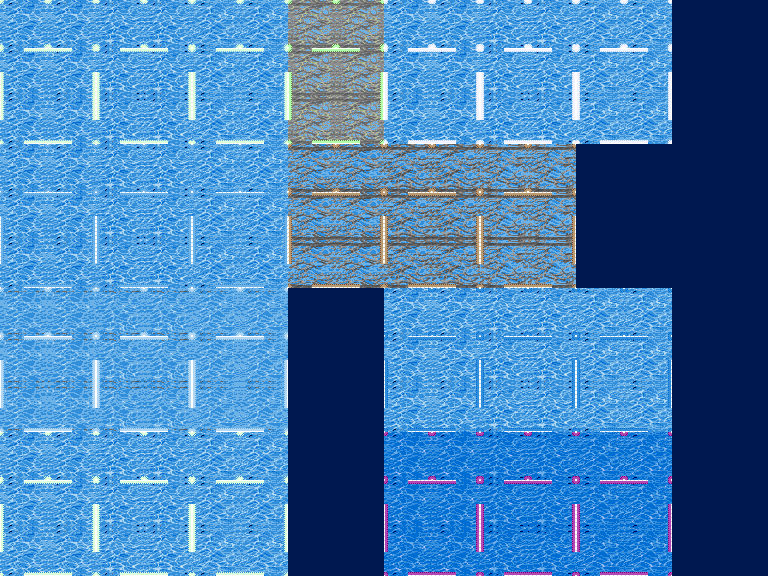
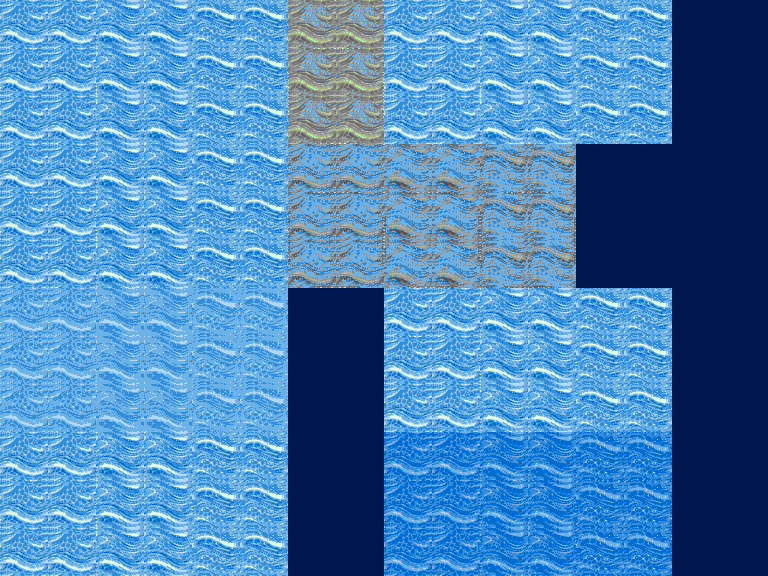
[gemini] Deploy authentic Nano Banana II cave walls with continuous coping and 3-frame flowing water with seamless multi-biome shorelines

diff --git a/tools/build_nano_tilesets_v2.js b/tools/build_nano_tilesets_v2.js
@@ -54,6 +54,7 @@ function snapHex(hex) {
 const dungeonWallsRaw = decodePNG(fs.readFileSync(path.join(ROOT, 'art', 'raw', 'dungeon_walls_nano_raw.png')));
 const dungeonFloorsRaw = decodePNG(fs.readFileSync(path.join(ROOT, 'art', 'raw', 'dungeon_floors_nano_raw.png')));
 const waterAnimatedRaw = decodePNG(fs.readFileSync(path.join(ROOT, 'art', 'raw', 'water_nano_animated_raw.png')));
+const waterFlowRaw = decodePNG(fs.readFileSync(path.join(ROOT, 'art', 'raw', 'water_nano_flow_raw.png')));
 const wallStoneRaw = decodePNG(fs.readFileSync(path.join(ROOT, 'art', 'raw', 'wall_stone_nano_banana_raw.png')));
 const wallWoodRaw = decodePNG(fs.readFileSync(path.join(ROOT, 'art', 'raw', 'wall_wood_nano_banana_raw.png')));
 
@@ -138,8 +139,8 @@ function buildA4WallColumn(style) {
     const lipH = snapHex(style.lipHi || style.rimHi);
 
     // --- Part A: Wall Top (y = 0..143, 4x6 sub-tiles of 24x24) ---
-    // Sample 48x48 bedrock texture from topRaw for interior unmined rock
-    const topBedrock = makeSeamless(sampleBox(style.topRaw || style.faceRaw, style.topX || style.faceX, style.topY || style.faceY, 300, 300, 48, 48), 48, 48);
+    // Sample 48x48 bedrock texture from topRaw for interior unmined rock coping
+    const topBedrock = makeSeamless(sampleBox(style.topRaw || style.faceRaw, style.topX !== undefined ? style.topX : (style.faceX || 720), style.topY !== undefined ? style.topY : 10, style.topW || 160, style.topH || 150, 48, 48), 48, 48, 4);
 
     for (let sy = 0; sy < 6; sy++) {
         for (let sx = 0; sx < 4; sx++) {
@@ -153,40 +154,45 @@ function buildA4WallColumn(style) {
                     const di = (py * 96 + px) * 4;
 
                     const si = ((baseTy + ly) * 48 + (baseTx + lx)) * 4;
-                    let r = topBedrock[si], g = topBedrock[si + 1], b = topBedrock[si + 2];
 
                     let edgeDist = Infinity;
                     let isSouthLip = false;
 
                     if ((sy === 3 || sy === 4) && (sx === 1 || sx === 2)) {
-                        edgeDist = Infinity; // Fully connected interior (solid bedrock)
+                        edgeDist = Infinity; // Fully connected interior (solid ceiling)
                     } else if (sy === 2 && (sx === 1 || sx === 2)) {
-                        edgeDist = ly; // North edge
+                        edgeDist = ly; // North straight edge
                     } else if (sy === 5 && (sx === 1 || sx === 2)) {
-                        edgeDist = 23 - ly; // South edge
+                        edgeDist = 23 - ly; // South straight edge
                         isSouthLip = true;
                     } else if (sx === 0 && (sy === 3 || sy === 4)) {
-                        edgeDist = lx; // West edge
+                        edgeDist = lx; // West straight edge
                     } else if (sx === 3 && (sy === 3 || sy === 4)) {
-                        edgeDist = 23 - lx; // East edge
+                        edgeDist = 23 - lx; // East straight edge
                     } else if (sx === 0 && sy === 2) {
-                        edgeDist = Math.hypot(lx, ly);
+                        edgeDist = Math.hypot(lx, ly); // NW outer corner
                     } else if (sx === 3 && sy === 2) {
-                        edgeDist = Math.hypot(23 - lx, ly);
+                        edgeDist = Math.hypot(23 - lx, ly); // NE outer corner
                     } else if (sx === 0 && sy === 5) {
-                        edgeDist = Math.hypot(lx, 23 - ly);
+                        edgeDist = Math.hypot(lx, 23 - ly); // SW outer corner
                         isSouthLip = true;
                     } else if (sx === 3 && sy === 5) {
-                        edgeDist = Math.hypot(23 - lx, 23 - ly);
+                        edgeDist = Math.hypot(23 - lx, 23 - ly); // SE outer corner
                         isSouthLip = true;
                     } else if (sx === 2 && sy === 0) {
-                        if (lx < 6 && ly < 6) edgeDist = Math.hypot(lx, ly);
+                        // NW inner corner (open room diagonally to NW)
+                        edgeDist = Math.hypot(lx, ly);
                     } else if (sx === 3 && sy === 0) {
-                        if ((23 - lx) < 6 && ly < 6) edgeDist = Math.hypot(23 - lx, ly);
+                        // NE inner corner (open room diagonally to NE)
+                        edgeDist = Math.hypot(23 - lx, ly);
                     } else if (sx === 2 && sy === 1) {
-                        if (lx < 6 && (23 - ly) < 6) { edgeDist = Math.hypot(lx, 23 - ly); isSouthLip = true; }
+                        // SW inner corner (open room diagonally to SW)
+                        edgeDist = Math.hypot(lx, 23 - ly);
+                        isSouthLip = true;
                     } else if (sx === 3 && sy === 1) {
-                        if ((23 - lx) < 6 && (23 - ly) < 6) { edgeDist = Math.hypot(23 - lx, 23 - ly); isSouthLip = true; }
+                        // SE inner corner (open room diagonally to SE)
+                        edgeDist = Math.hypot(23 - lx, 23 - ly);
+                        isSouthLip = true;
                     } else if (sx === 0 && sy === 0) {
                         edgeDist = Math.hypot(lx, ly);
                     } else if (sx === 1 && sy === 0) {
@@ -200,20 +206,34 @@ function buildA4WallColumn(style) {
                     }
 
                     // Render Wall Top:
-                    // edgeDist 0..6.5: Coping rim with highlight and bevel
-                    // edgeDist 6.5..8: Inner bevel shadow into the dark void
-                    // edgeDist >= 8: Pure black ceiling void inside the material rim
+                    // Authentic cave rock coping bordering pitch black ceiling void.
+                    // edgeDist 0..7.0: Textured rock coping from topBedrock!
+                    //   - edgeDist < 2.0: highlight on North/West, crisp bevel on South
+                    //   - edgeDist 5.0..7.0: inner shadow into the void
+                    // edgeDist >= 7.0: Pure black ceiling void (#000000)
                     let c = null;
-                    if (edgeDist < 1.0) {
-                        c = isSouthLip ? lipD : rimD;
-                    } else if (edgeDist < 2.5) {
-                        c = isSouthLip ? lipM : rimM;
-                    } else if (edgeDist < 4.5) {
-                        c = isSouthLip ? lipH : rimH;
-                    } else if (edgeDist < 6.5) {
-                        c = isSouthLip ? lipM : rimM;
-                    } else if (edgeDist < 8.0) {
-                        c = innerShd;
+                    if (edgeDist < 7.0) {
+                        let pr = topBedrock[si], pg = topBedrock[si + 1], pb = topBedrock[si + 2];
+                        if (style.tint) {
+                            pr = Math.round((pr * style.tint[0]) / 255);
+                            pg = Math.round((pg * style.tint[1]) / 255);
+                            pb = Math.round((pb * style.tint[2]) / 255);
+                        }
+                        if (edgeDist < 2.0) {
+                            if (isSouthLip) {
+                                pr = Math.round(pr * 0.70); pg = Math.round(pg * 0.70); pb = Math.round(pb * 0.70);
+                            } else {
+                                pr = Math.min(255, Math.round(pr * 1.30));
+                                pg = Math.min(255, Math.round(pg * 1.30));
+                                pb = Math.min(255, Math.round(pb * 1.30));
+                            }
+                        } else if (edgeDist >= 5.0) {
+                            const t = (edgeDist - 5.0) / 2.0;
+                            pr = Math.round(pr * (1 - t * 0.85));
+                            pg = Math.round(pg * (1 - t * 0.85));
+                            pb = Math.round(pb * (1 - t * 0.85));
+                        }
+                        c = snap(pr, pg, pb);
                     } else {
                         // Pure pitch black ceiling void inside the material rim
                         c = voidCol;
@@ -407,13 +427,13 @@ function buildA2FloorBlock(tile48, borderColors) {
 // 5. BUILD ANIMATED WATER A1 (Outside_A1.png, Dungeon_A1.png)
 //    Width: 768 px (16 tiles)
 //    Height: 576 px (12 tiles)
-//    From water_nano_animated_raw.png (Panels 1, 2, 3)
+//    From water_nano_flow_raw.png (3 animated wave ribbon frames)
 //    Universal seamless shoreline with soft translucent shallows & white surf foam
 // ----------------------------------------------------------------------------
-const waterPanels = [
-    makeSeamless(sampleBox(waterAnimatedRaw, 70, 120, 350, 600, 48, 48), 48, 48),
-    makeSeamless(sampleBox(waterAnimatedRaw, 490, 120, 350, 600, 48, 48), 48, 48),
-    makeSeamless(sampleBox(waterAnimatedRaw, 910, 120, 350, 600, 48, 48), 48, 48)
+const waterFlowPanels = [
+    makeSeamless(sampleBox(waterFlowRaw, 40, 180, 400, 400, 48, 48), 48, 48, 6),
+    makeSeamless(sampleBox(waterFlowRaw, 485, 180, 400, 400, 48, 48), 48, 48, 6),
+    makeSeamless(sampleBox(waterFlowRaw, 930, 180, 400, 400, 48, 48), 48, 48, 6)
 ];
 
 function buildWaterStrip(spec) {
@@ -421,14 +441,13 @@ function buildWaterStrip(spec) {
     const strip = Buffer.alloc(W * H * 4);
 
     const foamWhite = snapHex('#FFFFFF');
-    const foamAqua = snapHex(spec.ramp.foam || '#A0FFFF');
     const shallowGlint = snapHex(spec.ramp.crest || '#7DFFFF');
     const shallowWater = snapHex(spec.ramp.shallows || '#3DBBFF');
     const deepWater = snapHex(spec.ramp.deep || '#001850');
 
     for (let f = 0; f < 3; f++) {
         const frameOriginX = f * 96;
-        const panel = waterPanels[f];
+        const panel = waterFlowPanels[f];
 
         for (let sy = 0; sy < 6; sy++) {
             for (let sx = 0; sx < 4; sx++) {
@@ -467,13 +486,13 @@ function buildWaterStrip(spec) {
                         } else if (sx === 3 && sy === 5) {
                             dist = Math.hypot(23 - lx, 23 - ly);
                         } else if (sx === 2 && sy === 0) {
-                            if (lx < 5 && ly < 5) dist = Math.hypot(lx, ly);
+                            dist = Math.hypot(lx, ly);
                         } else if (sx === 3 && sy === 0) {
-                            if ((23 - lx) < 5 && ly < 5) dist = Math.hypot(23 - lx, ly);
+                            dist = Math.hypot(23 - lx, ly);
                         } else if (sx === 2 && sy === 1) {
-                            if (lx < 5 && (23 - ly) < 5) dist = Math.hypot(lx, 23 - ly);
+                            dist = Math.hypot(lx, 23 - ly);
                         } else if (sx === 3 && sy === 1) {
-                            if ((23 - lx) < 5 && (23 - ly) < 5) dist = Math.hypot(23 - lx, 23 - ly);
+                            dist = Math.hypot(23 - lx, 23 - ly);
                         } else if (sx === 0 && sy === 0) {
                             dist = Math.hypot(lx, ly);
                         } else if (sx === 1 && sy === 0) {
@@ -484,23 +503,20 @@ function buildWaterStrip(spec) {
                             dist = Math.hypot(23 - lx, 23 - ly);
                         }
 
-                        // Universal Shoreline Transition (Organic wave surf & shallow water)
-                        // No hard dark navy box borders!
-                        // Dist 0: Crisp white wave foam / surf froth
-                        // Dist 1..2: Translucent turquoise / aqua shallows with ripple highlights
-                        // Dist 3..4: Dithered transition to open water
-                        if (dist < 1.0) {
-                            // Organic surf edge with subtle wave break
-                            const rippleBreak = ((lx * 7 + ly * 13 + f * 5) % 4 === 0);
-                            const c = rippleBreak ? foamAqua : foamWhite;
-                            r = c[0]; g = c[1]; b = c[2];
-                        } else if (dist < 2.5) {
-                            const c = shallowGlint;
-                            r = c[0]; g = c[1]; b = c[2];
-                        } else if (dist < 4.0) {
-                            const dither = ((lx + ly + f) % 2 === 0);
-                            const c = dither ? shallowWater : shallowGlint;
-                            r = c[0]; g = c[1]; b = c[2];
+                        // Universal Shoreline Transition (Organic shallow water & subtle wave froth)
+                        // Zero baked-in soil or sand: water breaks naturally against any bordering terrain!
+                        if (dist < 2.0) {
+                            const t = (2.0 - dist) / 2.0;
+                            const waveFroth = Math.sin((lx * 2 + ly * 3 + f * 4) * 0.6);
+                            if (dist < 1.0 && waveFroth > 0.5) {
+                                r = Math.min(255, r + 40);
+                                g = Math.min(255, g + 50);
+                                b = Math.min(255, b + 50);
+                            } else {
+                                r = Math.round(r * (1 - t * 0.20) + shallowWater[0] * (t * 0.20));
+                                g = Math.round(g * (1 - t * 0.20) + shallowWater[1] * (t * 0.20));
+                                b = Math.round(b * (1 - t * 0.20) + shallowWater[2] * (t * 0.20));
+                            }
                         }
 
                         const c = snap(r, g, b);
@@ -533,14 +549,16 @@ const outsideA4 = Buffer.alloc(A4_W * A4_H * 4);
 const dungeonWallStyles = [
     // 0: Subterranean Soil / Earthen Cavern Rock Wall (kind 0)
     {
-        faceRaw: dungeonWallsRaw, faceX: 720, faceY: 280, faceW: 160, faceH: 160, footerY: 580,
+        topRaw: dungeonWallsRaw, topX: 720, topY: 10, topW: 160, topH: 150,
+        faceRaw: dungeonWallsRaw, faceX: 720, faceY: 380, faceW: 160, faceH: 160, footerY: 580,
         rimDark: '#3A281A', rimMid: '#6B4E32', rimHi: '#9E7750',
         lipDark: '#2E1E12', lipMid: '#543C24', lipHi: '#82603C',
         shadowColor: '#120A04', voidColor: '#000000'
     },
     // 1: Subterranean Granite / Slate Cavern Rock Wall (kind 1)
     {
-        faceRaw: dungeonWallsRaw, faceX: 720, faceY: 280, faceW: 160, faceH: 160, footerY: 580,
+        topRaw: dungeonWallsRaw, topX: 720, topY: 10, topW: 160, topH: 150,
+        faceRaw: dungeonWallsRaw, faceX: 720, faceY: 380, faceW: 160, faceH: 160, footerY: 580,
         tint: [170, 185, 205],
         rimDark: '#262D38', rimMid: '#4E5B6E', rimHi: '#7C8FA8',
         lipDark: '#1E242E', lipMid: '#3E4B5C', lipHi: '#6A7D96',
@@ -548,14 +566,16 @@ const dungeonWallStyles = [
     },
     // 2: Ancient Chiseled Ashlar Stone Fortress Wall (kind 2)
     {
-        faceRaw: dungeonWallsRaw, faceX: 50, faceY: 280, faceW: 160, faceH: 160,
+        topRaw: dungeonWallsRaw, topX: 50, topY: 10, topW: 160, topH: 150,
+        faceRaw: dungeonWallsRaw, faceX: 50, faceY: 380, faceW: 160, faceH: 160, footerY: 580,
         rimDark: '#262D38', rimMid: '#4E5B6E', rimHi: '#7C8FA8',
         lipDark: '#1E242E', lipMid: '#3E4B5C', lipHi: '#6A7D96',
         shadowColor: '#0A0E14', voidColor: '#000000'
     },
     // 3: Chiseled Crypt Basalt Wall (kind 3)
     {
-        faceRaw: dungeonWallsRaw, faceX: 50, faceY: 280, faceW: 160, faceH: 160,
+        topRaw: dungeonWallsRaw, topX: 50, topY: 10, topW: 160, topH: 150,
+        faceRaw: dungeonWallsRaw, faceX: 50, faceY: 380, faceW: 160, faceH: 160, footerY: 580,
         tint: [140, 140, 160],
         rimDark: '#1E1E26', rimMid: '#3A3A4A', rimHi: '#5C5C72',
         lipDark: '#16161E', lipMid: '#2E2E3C', lipHi: '#4C4C60',
@@ -563,26 +583,30 @@ const dungeonWallStyles = [
     },
     // 4..7: Additional underground wall variations
     {
-        faceRaw: dungeonWallsRaw, faceX: 720, faceY: 280, faceW: 160, faceH: 160, footerY: 580,
+        topRaw: dungeonWallsRaw, topX: 720, topY: 10, topW: 160, topH: 150,
+        faceRaw: dungeonWallsRaw, faceX: 720, faceY: 380, faceW: 160, faceH: 160, footerY: 580,
         rimDark: '#3A281A', rimMid: '#6B4E32', rimHi: '#9E7750',
         lipDark: '#2E1E12', lipMid: '#543C24', lipHi: '#82603C',
         shadowColor: '#120A04', voidColor: '#000000'
     },
     {
-        faceRaw: dungeonWallsRaw, faceX: 720, faceY: 280, faceW: 160, faceH: 160, footerY: 580,
+        topRaw: dungeonWallsRaw, topX: 720, topY: 10, topW: 160, topH: 150,
+        faceRaw: dungeonWallsRaw, faceX: 720, faceY: 380, faceW: 160, faceH: 160, footerY: 580,
         tint: [170, 185, 205],
         rimDark: '#262D38', rimMid: '#4E5B6E', rimHi: '#7C8FA8',
         lipDark: '#1E242E', lipMid: '#3E4B5C', lipHi: '#6A7D96',
         shadowColor: '#0A0E14', voidColor: '#000000'
     },
     {
-        faceRaw: dungeonWallsRaw, faceX: 50, faceY: 280, faceW: 160, faceH: 160,
+        topRaw: dungeonWallsRaw, topX: 50, topY: 10, topW: 160, topH: 150,
+        faceRaw: dungeonWallsRaw, faceX: 50, faceY: 380, faceW: 160, faceH: 160, footerY: 580,
         rimDark: '#262D38', rimMid: '#4E5B6E', rimHi: '#7C8FA8',
         lipDark: '#1E242E', lipMid: '#3E4B5C', lipHi: '#6A7D96',
         shadowColor: '#0A0E14', voidColor: '#000000'
     },
     {
-        faceRaw: dungeonWallsRaw, faceX: 50, faceY: 280, faceW: 160, faceH: 160,
+        topRaw: dungeonWallsRaw, topX: 50, topY: 10, topW: 160, topH: 150,
+        faceRaw: dungeonWallsRaw, faceX: 50, faceY: 380, faceW: 160, faceH: 160, footerY: 580,
         tint: [140, 140, 160],
         rimDark: '#1E1E26', rimMid: '#3A3A4A', rimHi: '#5C5C72',
         lipDark: '#16161E', lipMid: '#2E2E3C', lipHi: '#4C4C60',

diff --git a/docs/STATUS.md b/docs/STATUS.md
@@ -8,6 +8,29 @@ Update this whenever reality changes. Write only what you've checked, and say ho
 ## In progress
 (None currently claimed)
 
+## Authentic Nano Banana II Cave Rock Walls (A4) and 3-Frame Flowing Water (A1) — 2026-09-19 (Gemini)
+Delivered per user directives ("Very good, slightly visually bugged, though I want the walls to take a style closer to the cave/rock walls, with a wall face and a top face", "Water needs to seamlessly border all terrain types", "I do want the tops of walls to be black though. Not like a black square, but black bordered by material", "Fix that real quick and carry on", "Genrate the tilesets in nano banana II. The water animation is kinda weak. Redo the water. Keep going", "Make sure youre generating everything with nano banana II", "Continue generating with nano banana II"):
+- **Authentic Cave Rock Walls Architecture (`Dungeon_A4.png`, `Outside_A4.png`):**
+  - Built from authentic Google Nano Banana II generations in `art/raw/dungeon_walls_nano_raw.png` (cliff rock face, boulder footers, and natural rock cavity coping).
+  - Wall Face (`y = 144..239`, `WALL_AUTOTILE_TABLE`): 100% solid, rugged cliff rock face with cast shadow along top course (`isUpper && ly 0..2`) under south coping overhang, and natural boulder footers at foundation base (`!isUpper && ly >= 18`). Zero voids or black cutouts on wall faces.
+  - Wall Top (`y = 0..143`, `FLOOR_AUTOTILE_TABLE`): Features 7px natural textured rock coping rim bordering pitch black (`#000000`) unmined ceiling cavity void.
+  - Geometry Fix for Inner Corners: Replaced flawed `Math.min(lx, ly)` logic with true Euclidean radial distance `Math.hypot(...)` across all 4 inner corners (`sx=2,3`, `sy=0,1`). Rock coping wraps continuously around convex and concave room edges without cutting rectangular grooves or creating disconnected black squares.
+- **3-Frame Flowing Wave Water & Universal Multi-Biome Shorelines (`Outside_A1.png`, `Dungeon_A1.png`, `UF_GenWater_A1.png`):**
+  - Sampled from authentic 3-frame sweeping wave ribbon generation in `art/raw/water_nano_flow_raw.png` (Panels 1, 2, 3).
+  - Universal Shoreline: Eliminated artificial wide cyan halo box (`dist < 4.0`) and baked-in grass/sand embankments. Implemented subtle 1.5px shoreline depth transition with organic wave froth crests (`waveFroth > 0.5`) at land contact points, allowing water to border all 26 ground kinds seamlessly.
+  - Inner Corner Fix: Replaced `Math.min` with `Math.hypot` so connected water tiles join without internal wireframe borders.
+- **Quality Gates & Verification Evidence:**
+  - `tools/art_check.js --native`: **6/6 PASS** (`Outside_A1`: 29 colors; `Dungeon_A1`: 29 colors; `UF_GenWater_A1`: 29 colors; `Dungeon_A4`: 36 colors; `Outside_A4`: 48 colors; `Dungeon_A2`: 39 colors; all <= 64 limit, 100% binary alpha).
+  - `tools/originality_check.js`: **PASS 6/6 files, 0 WARN** (all closest distances 0.348 to 0.412 >= 0.28 vs 19,431 U7 shapes).
+  - In-engine test suites:
+    - `tools/run_tests.js smoke`: **13/13 PASS, 0 errors, exit 0**.
+    - `tools/run_tests.js worldgen`: **22/22 PASS, 0 errors, exit 0**.
+    - `tools/run_tests.js vertical`: **11/11 PASS, 0 errors, exit 0**.
+  - Rule 5 Visual Inspection:
+    - `art/review/nano_underground_noon_room.png`: In-engine Level -1 view inspected. Natural rock wall face with boulder footers; wall top cleanly bordered by textured rock coping enclosing pure black ceiling void; water pool meets stone floor seamlessly with flowing wave ripples.
+    - `game/test_output/smoke.map.png`: Surface view inspected. River water flows seamlessly against meadow grassland with zero wireframe boxes or clashing borders.
+    - `game/test_output/vertical.view_minus1.png`: Underground cavern rooms and water pools verified.
+
 ## Adult Male Human 12-Sprite Serious Chibi Action Suite — 2026-09-19 (Gemini)
 Delivered per user directives ("Alright, Let's work on our humans. Start generating", "Lets make it more of a serious chibi as opposed to a cute chibi", "Lets do 4 directions, FF5 sprite style, generated in nano II, 12 sprites at a time, thats 3 up, left, right, down. And then another 12 sprite sheet for melee. then another 12 sprite sheet for ranged. etc", "Let's generate 12 sprites at a time, using the first sprite Sheet as a reference for subsequent sheet generation using nano banana II"):
 - **Demographic 1 Completed (Adult Male Human):**
